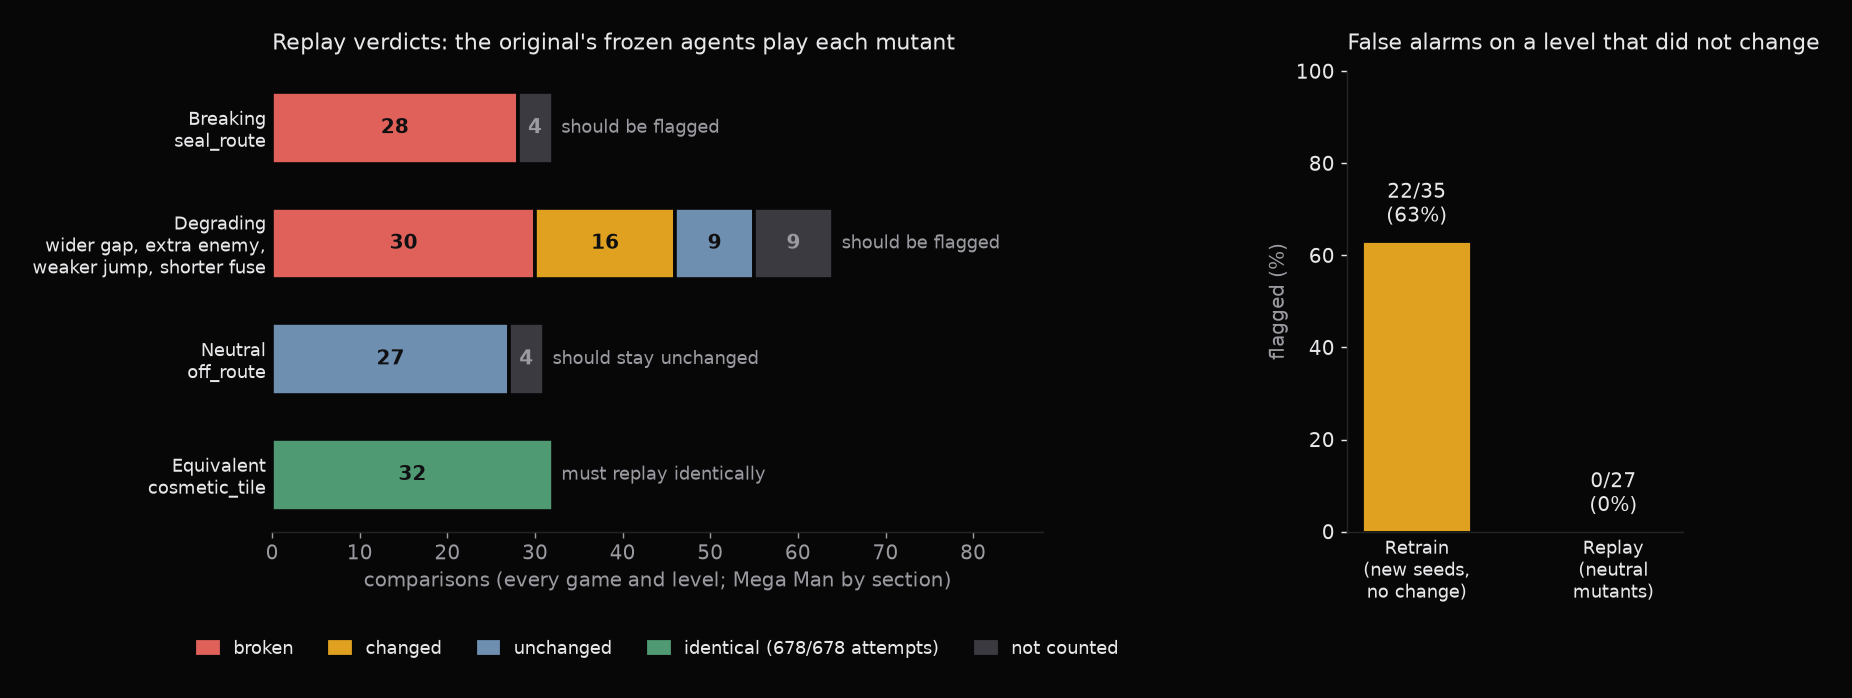
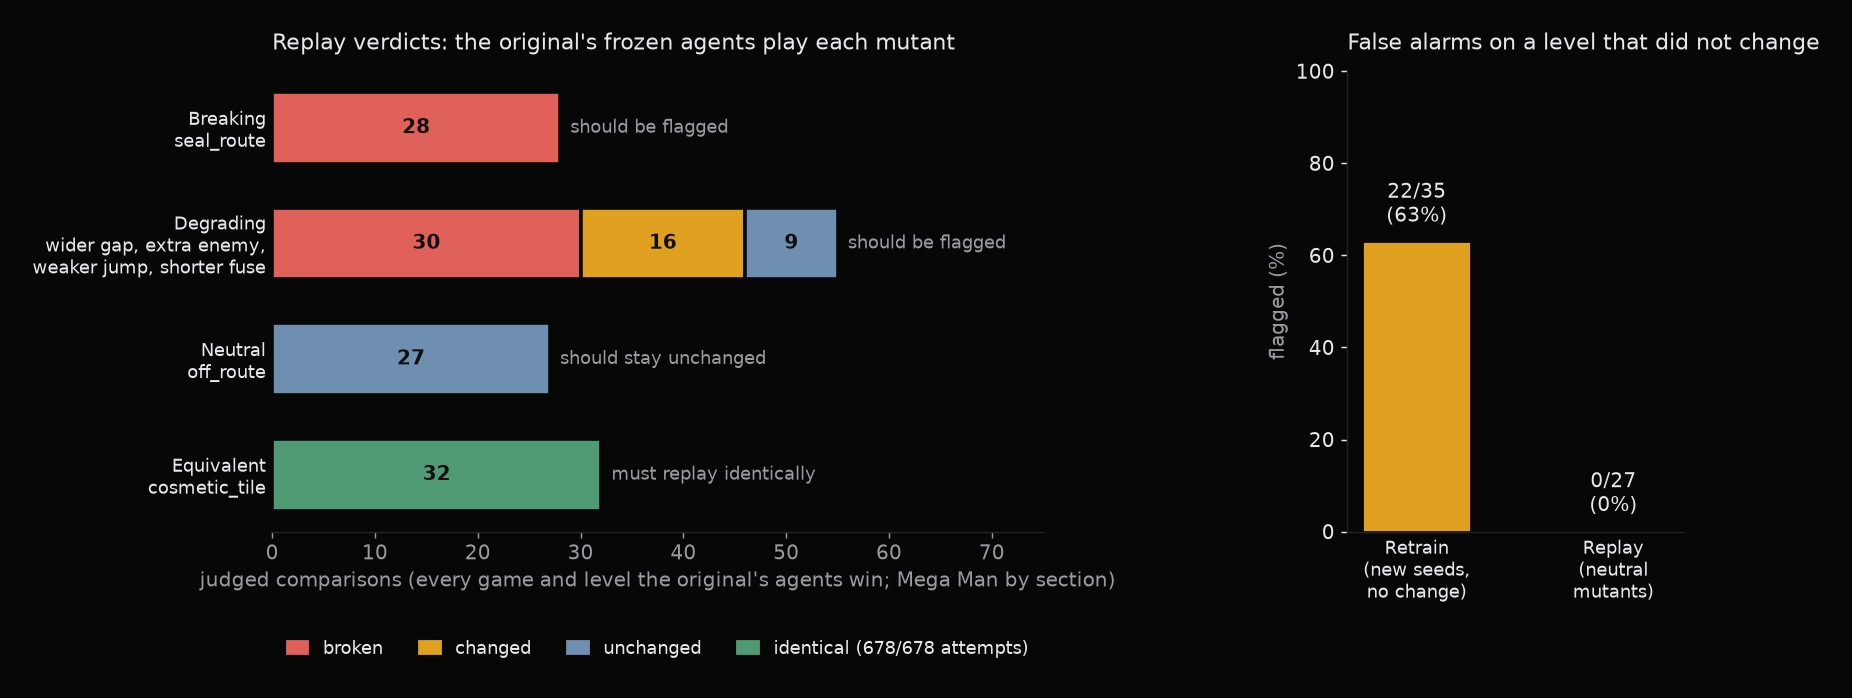
Replay wall plays the 200-generation agents; mutation page and README leave out levels whose original is never won; README gifs from the new recordings

diff --git a/code/stats/ast_page.py b/code/stats/ast_page.py
@@ -361,11 +361,11 @@ def _others_row(game: str, res: dict, placed: list[dict]) -> str:
         if not ms:
             continue
         tones = [detect(m, res)[1] for m in ms]
-        good, bad, wait = tones.count("good"), tones.count("bad"), tones.count("none")
+        good, bad = tones.count("good"), tones.count("bad")
         tone = "bad" if bad else "good" if good else "none"
         icon = {"good": '<i class="ico coin"></i>', "bad": '<i class="ico heartbreak"></i>'}.get(tone, "")
         word = f"right {good}/{good + bad}" if good + bad else "waiting"
-        label = f"{len(ms)} levels" + (f", {wait} waiting" if wait and good + bad else "")
+        label = f"{good + bad or len(ms)} levels"     # levels whose original is unsolved are left out
         rep = ""
         if not ms[0]["operator"].endswith("cosmetic_tile"):
             st = [solvable(m, res)[1] for m in ms]
@@ -556,7 +556,6 @@ def render(results: dict, only: str | None = None, nav: bool = True) -> str:
     strip = ('<div class="scorestrip">'
              f'<div class="frame good"><span class="label">Right</span><span class="num"><i class="ico coin"></i>{sc["good"]}</span></div>'
              f'<div class="frame bad"><span class="label">Wrong</span><span class="num"><i class="ico heartbreak"></i>{sc["bad"]}</span></div>'
-             f'<div class="frame none"><span class="label">Waiting</span><span class="num"><i class="ico hourglass"></i>{sc["none"]}</span></div>'
              '</div>')
     tabs = ('<div class="gametabs" role="tablist" aria-label="Games">'
             + "".join(f'<button class="btn g-{g}" role="tab" type="button" data-game="{g}" aria-controls="{g}">{_icon(g)}'

diff --git a/code/neuro/cameras.py b/code/neuro/cameras.py
@@ -3,7 +3,7 @@
     python -m code.neuro.cameras            # http://127.0.0.1:8010/
 
 Each camera plays the saved full-sweep models of one game and persona (runs/probes/<game>/<persona>/
-p10g40/<level>_<seed>/best.npz), level after level in config order, with the best seed of each
+p10g200/<level>_<seed>/best.npz), level after level in config order, with the best seed of each
 level; Mega Man plays the full Cut Man stage as a relay (runs/megaman/relay.json). One process per
 game steps its cameras at 30 frames per second and sends small JPEGs; the camera being watched is
 sent at full size with its rays and sensor values. The page also shows the balance pages
@@ -45,7 +45,7 @@ GAMES = ["mario", "meatboy", "bomberman"]
 with open(os.path.join(os.path.dirname(os.path.abspath(__file__)), "web", "theme.css"), encoding="utf-8") as _f:
     COLORS = dict(re.findall(r"--p-(\w+):\s*(#[0-9a-fA-F]{6})", _f.read()))   # the dashboards' persona colours
 ORDER = ["novice", "clumsy", "experienced", "speedrunner", "killer", "collector"]
-TAG = "p10g40"              # the full sweep's run tag (rays, pop 10, 40 generations)
+TAG = "p10g200"             # the main training's run tag (rays, pop 10, 200 generations, default GA)
 FPS = 30
 THUMB_EVERY = 4             # a small view refreshes every 4th frame (about 7 per second)
 STALL = 300                 # end an attempt after 10 s without progress, as the relay does

diff --git a/code/tests/test_cameras.py b/code/tests/test_cameras.py
@@ -6,14 +6,14 @@ os.environ.setdefault("SDL_VIDEODRIVER", "dummy")
 
 import numpy as np
 
-from code.neuro.cameras import Camera, frame_message, pick_models
+from code.neuro.cameras import TAG, Camera, frame_message, pick_models
 from code.neuro.evolution import GAConfig
 from code.neuro.net import make_net
 
 
 def _run(root, game, persona, level, seed, wins, max_frames=3600):
     """A fake probe run: state.json with `wins` per generation and random best.npz weights."""
-    d = os.path.join(root, game, persona, "p10g40", f"{level}_{seed}")
+    d = os.path.join(root, game, persona, TAG, f"{level}_{seed}")
     os.makedirs(d)
     cfg = GAConfig(pop_size=1, max_frames=max_frames, seed=seed)
     net = make_net(cfg)

diff --git a/README.md b/README.md
@@ -13,7 +13,7 @@
 </p>
 
 <p align="center">
-  <img src="docs/img/games.png" alt="The four games: Mario, Meat Boy, Bomberman and Mega Man" width="100%">
+  <img src="docs/img/games.gif" alt="Trained agents winning in the four games: Mario, Meat Boy, Bomberman and Mega Man" width="100%">
 </p>
 
 **PEAK** (Ontario Tech University, Master's program) evolves small neural networks that play four
@@ -29,7 +29,7 @@ compared.
 
 <table>
 <tr>
-<td width="50%" align="center"><img src="docs/img/first_win.gif" width="100%"><br><sub><b>The first win.</b> A population of 10 finds Mario 1-1's exit during evolution.</sub></td>
+<td width="50%" align="center"><img src="docs/img/mario_1-1.gif" width="100%"><br><sub><b>A trained agent wins.</b> The experienced persona's network (200 generations, Nibi run) reaches the flag of Mario 1-1.</sub></td>
 <td width="50%" align="center"><img src="docs/img/dashboard.png" width="100%"><br><sub><b>Live dashboard.</b> One agent with its raycasts, its inputs and its fitness.</sub></td>
 </tr>
 </table>
@@ -153,8 +153,8 @@ Bomberman's evaluation level is never solved, so it cannot be judged there.
 - Retraining with new seeds on a level that did not change raises a signal in **22 of 35** comparisons
   (63%). That is why retraining is not the detector.
 
-"Not counted" means the original's agents never won there: 4 Bomberman levels (its evaluation level
-among them) and the full Mega Man stage. Per-level numbers are in "All result numbers" below.
+A mutant is judged only where the original's agents win, so 4 Bomberman levels (its evaluation level
+among them) and the full Mega Man stage are left out. Per-level numbers are in "All result numbers" below.
 
 ---
 
@@ -333,8 +333,8 @@ noise. A mutant is flagged when any signal holds:
 | death cluster moved | failed end tiles (Chebyshev radius 3) move > 3 tiles, or appear |
 | new top cause | the most common cause of failure changes |
 
-Verdicts: **broken** (completion lost) · **changed** (any other signal) · **unchanged** · **not
-counted** (the original never wins there). A breaking or degrading mutant is caught when flagged; a
+Verdicts: **broken** (completion lost) · **changed** (any other signal) · **unchanged**. Where the
+original never wins, nothing is judged. A breaking or degrading mutant is caught when flagged; a
 neutral one is right when unchanged; the cosmetic one must match attempt for attempt. Also reported:
 win rate against the original's per-seed spread, a strict count (completion or Fisher only), and the
 rule's false-alarm rate on `base-reseeded`. The rule was fixed on 2026-10-25 after pilot replays, so
@@ -389,14 +389,17 @@ above. Mega Man's retrains (wins of 120 on section 3): `s3-seal_route` 0, `s3-wi
 
 **AST verdicts on the evaluation levels** (wins of 18 attempts; Mega Man: of 120, on section 3, Ledges)
 
-| Variant | Mario 1-1 | Meat Boy 2 | Bomberman 12 | Mega Man section 3 |
-|---|---|---|---|---|
-| original (`base`; Mega Man `base-retrained`) | 15/18 | 15/18 | 0/18 | 36/120 |
-| `seal_route`, replay | 0/18 **broken** | 0/18 **broken** | not counted | 0/120 **broken** |
-| `widen_gap` / `add_enemy`, replay | 11/18 **changed** | 2/18 **changed** | not counted | 1/120 **changed** |
-| `jump_velocity_down` / `fuse_down`, replay | 0/18 **broken** | 6/18 **changed** | not counted | see below |
-| `off_route`, replay | 15/18 unchanged | 15/18 unchanged | not counted | 36/120 unchanged |
-| `cosmetic_tile`, replay | 18/18 identical | 18/18 identical | 18/18 identical | 120/120 identical |
+| Variant | Mario 1-1 | Meat Boy 2 | Mega Man section 3 |
+|---|---|---|---|
+| original (`base`; Mega Man `base-retrained`) | 15/18 | 15/18 | 36/120 |
+| `seal_route`, replay | 0/18 **broken** | 0/18 **broken** | 0/120 **broken** |
+| `widen_gap`, replay | 11/18 **changed** | 2/18 **changed** | 1/120 **changed** |
+| `jump_velocity_down`, replay | 0/18 **broken** | 6/18 **changed** | see below |
+| `off_route`, replay | 15/18 unchanged | 15/18 unchanged | 36/120 unchanged |
+| `cosmetic_tile`, replay | 18/18 identical | 18/18 identical | 120/120 identical |
+
+Bomberman's evaluation level is left out: its original is never won (0/18), so no mutant there can be
+judged. Its cosmetic copy still replays identically (18/18).
 
 **Mega Man `m-jump_velocity_down`** (jump ×0.85 on the whole game), by section (wins of 120)
 
@@ -410,7 +413,6 @@ above. Mega Man's retrains (wins of 120 on section 3): `s3-seal_route` 0, `s3-wi
 | 6 Descent | 105 | 99 | 78 | changed |
 | 7 Corridor | 120 | 120 | 120 | unchanged |
 | 8 Boss | 80 | 76 | 83 | unchanged |
-| full stage | 0 | 0 | 0 | not counted |
 
 **False alarms** (`base-reseeded` against the original, 35 counted comparisons): completion lost 2,
 win rate changed 4, death cluster moved 17, top cause changed 9; any signal 22 (63%); completion or
@@ -421,7 +423,7 @@ Fisher only ("strict") 6 (17%); win rate outside the original's seed spread 4 of
 <summary><b>⚠ Known limits and caveats</b></summary>
 
 1. **Bomberman's evaluation level (12, Bomberman II 1-1) was never solved**, in training and every
-   retrain: its comparisons are all "not counted". (An older version used level 8, "09 Two Balloms";
+   retrain, so its mutants cannot be judged. (An older version used level 8, "09 Two Balloms";
    `paper-ast/ast_rule.md` still says "Bomberman 09". The code and this run use 12.)
 2. **Mario `jump_velocity_down` acts as breaking for agents on 1-1** (0/18): with jump ×0.85 the
    4-tall pipe at column 57 cannot be cleared from the ground; only a Goomba bounce gets past it.
